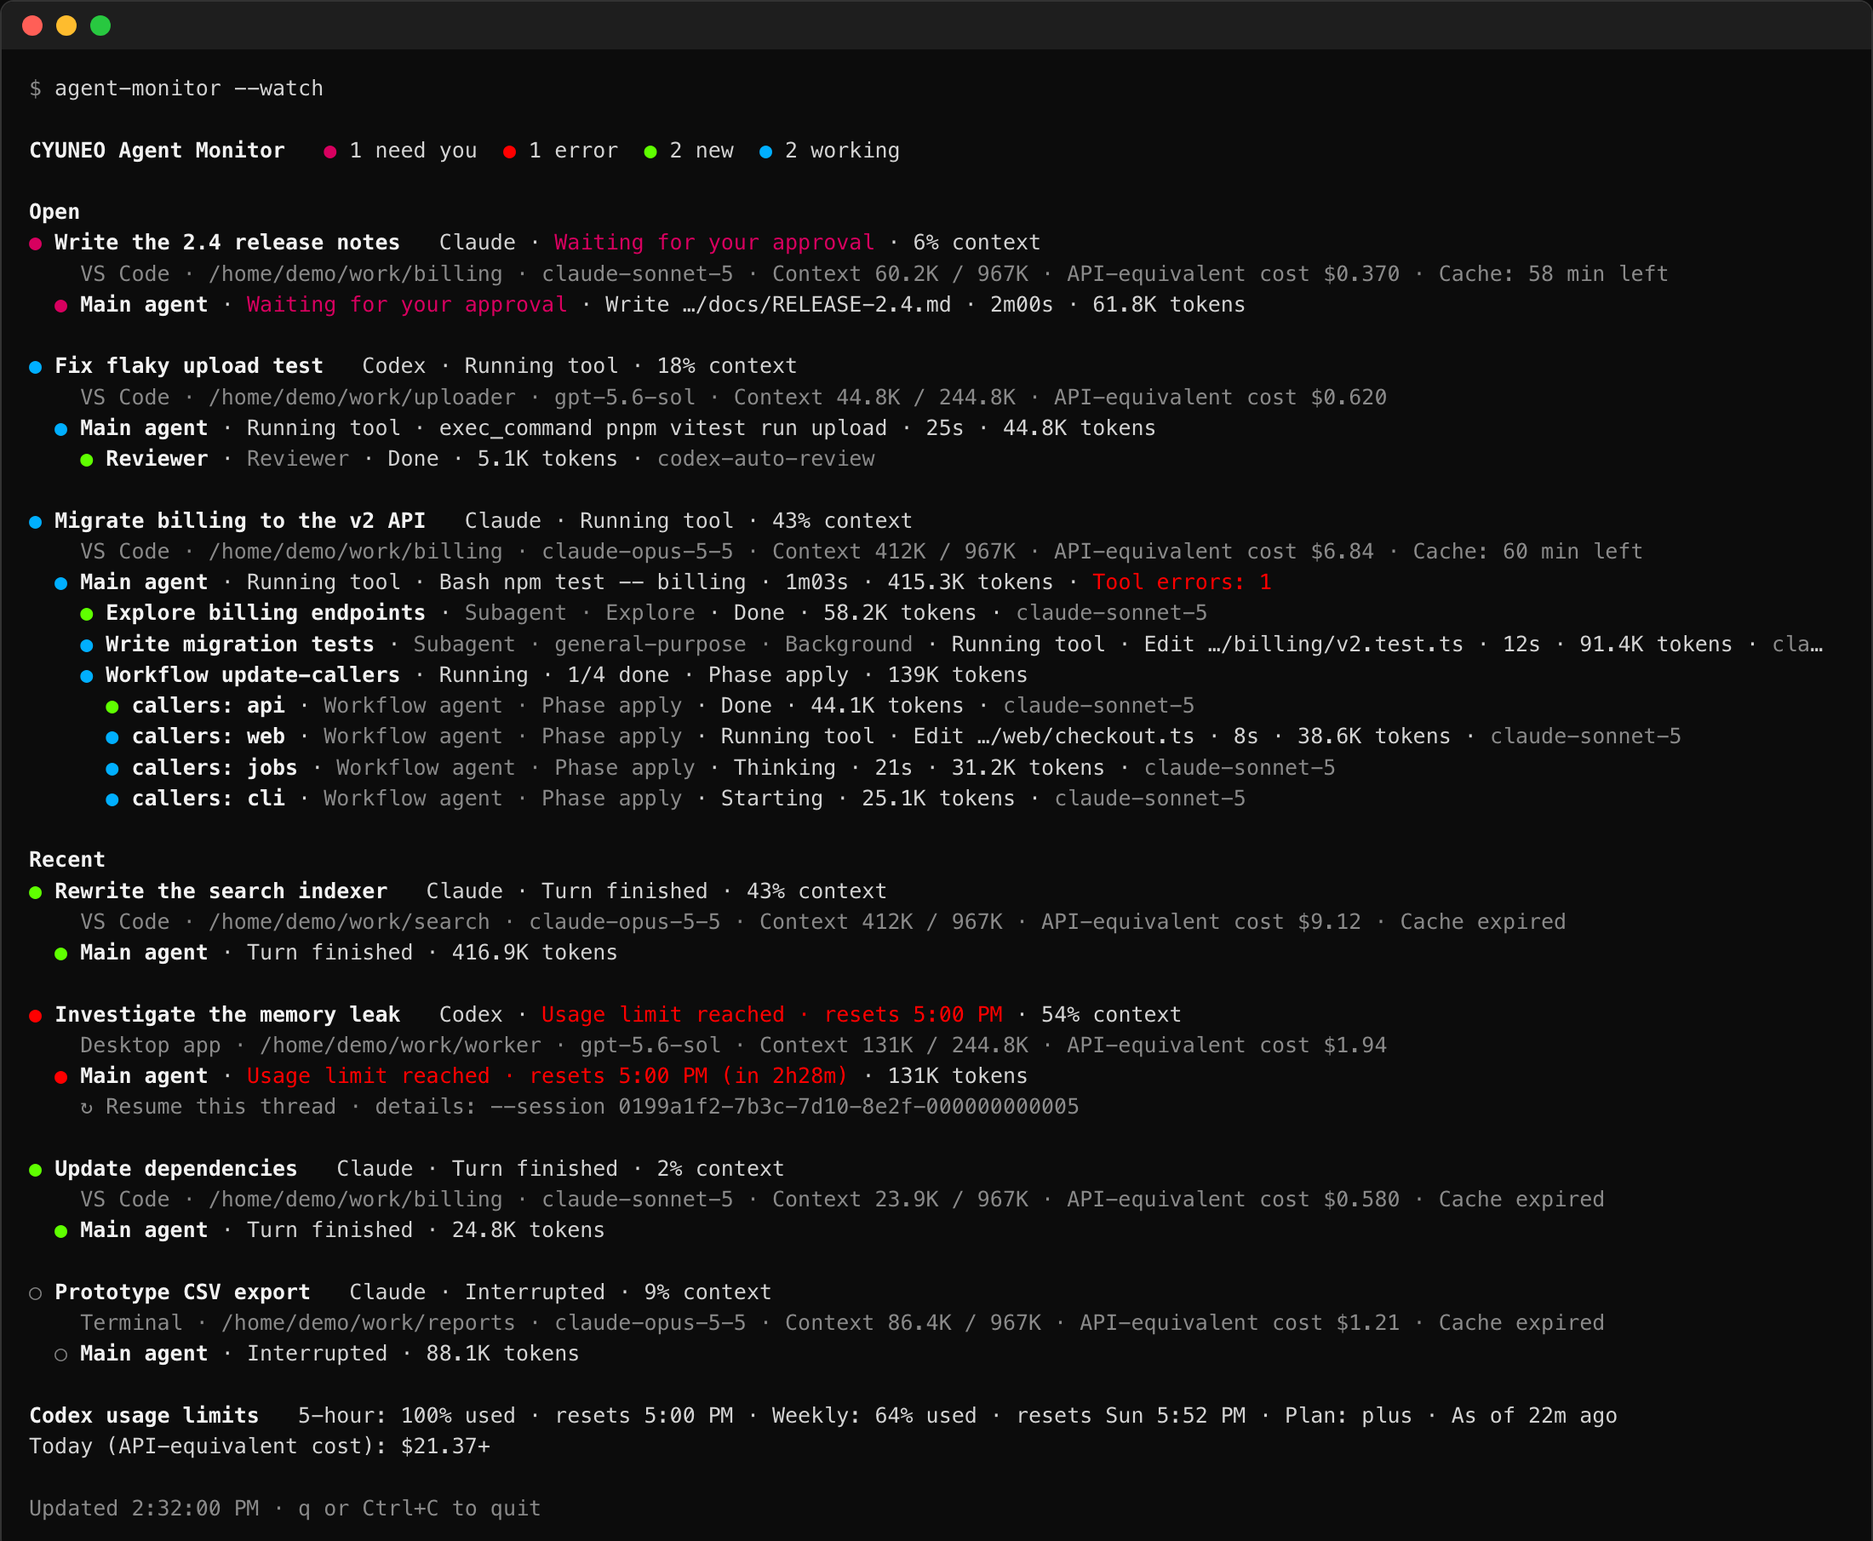
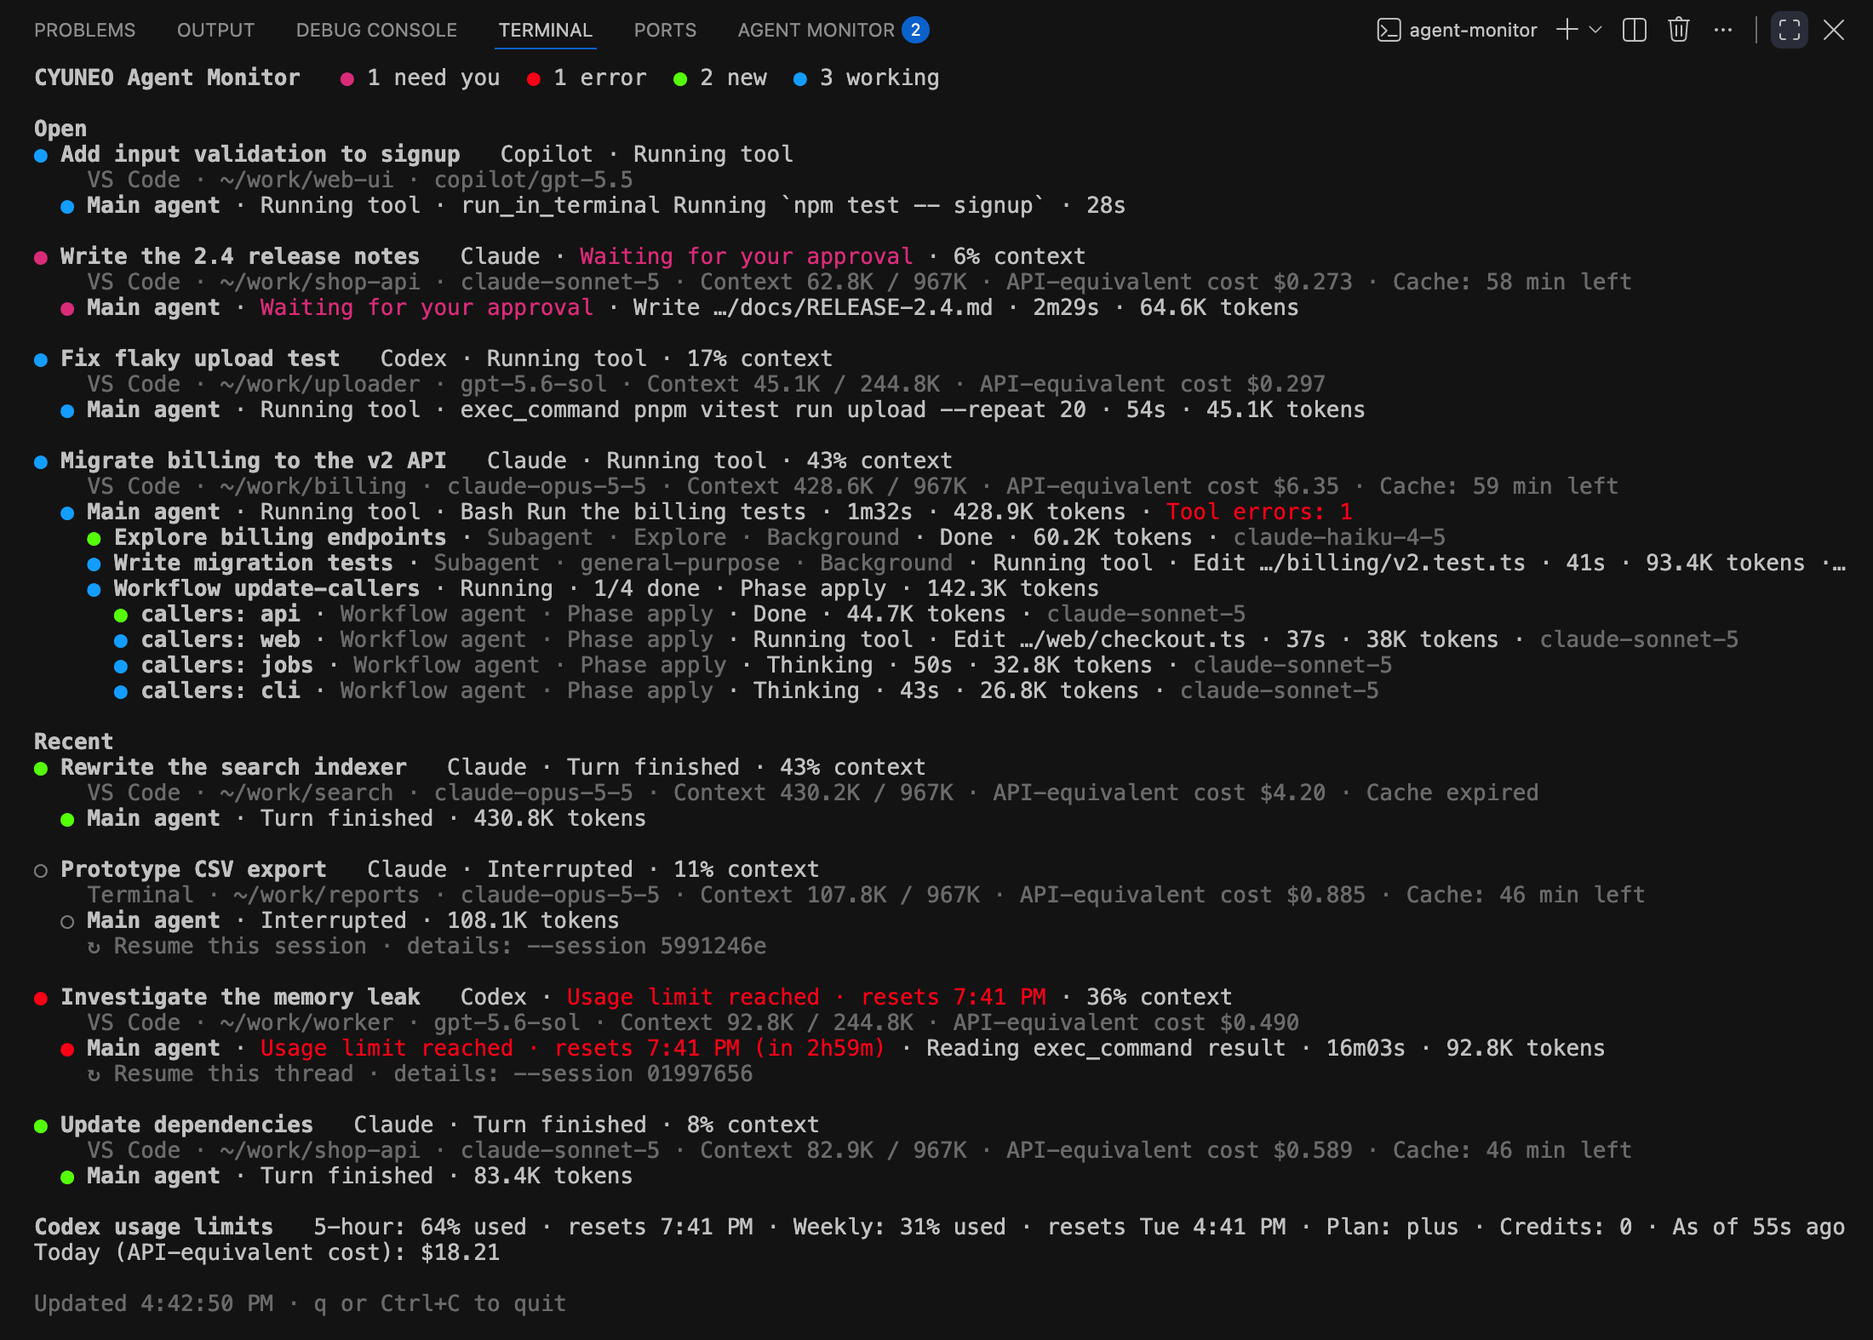
Refresh demo GIF and screenshots for 0.5.0; add usage history screenshot

diff --git a/docs/GUIDE.ja.md b/docs/GUIDE.ja.md
@@ -8,6 +8,8 @@
 
 ### ターミナルのように動くパネル
 
+![下部パネルのエージェントモニタータブ。データは架空のサンプルです。左に選択したClaude Codeチャットのメインエージェント、2つのサブエージェント、ワークフローのエージェント、右に開いているチャットと最近のチャットの一覧](../images/split-view.png)
+
 - **エージェントモニター**（英語UIではAgent Monitor）は、ターミナルの隣、下部パネルのタブとして開き、見た目もターミナルのようになります: 余分なビューヘッダーのない、ひとつのパネルです。選択したチャットのエージェントがパネルの大部分を占め、狭いチャット一覧がターミナルのタブ一覧のように片側に配置されます。
 - **チャット一覧。** 開いているチャットと最近のチャットがすべて、それぞれステータスランプ付きで表示されます。**開いている**（Claude Codeがまだチャットを開いている、CodexかGitHub Copilot Chatがターンの途中、Qwen Codeのプロセスがまだ動いている、またはGemini CLIが最近チャットに書き込んだと推測される）と**最近**にグループ分けされます。行の高さはターミナルのタブと同じで、選択したチャットはハイライトされます。タイトルが読めるよう、各行にはステータスランプとタイトルだけが表示されます。コンテキストが大きく対応する価値があるときは、タイトルの後ろに小さな印が付きます: **◔** 圧縮を検討、**◕** 早めに対応。行にカーソルを合わせると、ステータスやコンテキストなどの詳細がわかります。
 - **一覧はターミナルのタブ一覧と同じ側に配置されます**（既定は右側で、`terminal.integrated.tabs.location`に従います）。`agentMonitor.sessionListPosition`を設定すれば、自分で左右どちらかに変更できます。区切り線をドラッグして幅を調整し、ダブルクリックで既定の200pxに戻し、ほぼ閉じるまでドラッグするとステータスランプだけが並ぶ細い帯に縮まります。パネルが500px未満のときは自動的にこの細い帯になります。幅は記憶されます。
@@ -220,6 +222,8 @@ Claude Codeはコンテキストが一定の容量に達すると自動的に圧
 - 1日ごとの推定コストまたはトークン数を棒グラフで表示します。Claude CodeとCodexは積み上げて表示します（**コスト**と**トークン**を切り替えたり、**表で表示**を選んだりできます）。
 - 期間の合計、1日平均、使った日数を表示します。
 - **モデル別**の内訳を表示します: 入力、出力、キャッシュ読み取り、キャッシュ書き込み、推論、全トークン、推定コスト。
+
+![使用量の履歴ページ。データは架空のサンプルです。30日間の1日ごとの推定コスト（Claude CodeとCodexを積み上げ）、合計、モデル別の内訳](../images/history.png)
 
 しくみ:
 

diff --git a/docs/GUIDE.ko.md b/docs/GUIDE.ko.md
@@ -8,6 +8,8 @@
 
 ### 터미널처럼 동작하는 패널
 
+![하단 패널의 에이전트 모니터 탭입니다. 데이터는 가상의 예시입니다. 왼쪽에는 선택한 Claude Code 채팅의 메인 에이전트, 서브에이전트 두 개, 워크플로의 에이전트가, 오른쪽에는 열림과 최근 채팅 목록이 있습니다](../images/split-view.png)
+
 - **에이전트 모니터**(영어 UI에서는 Agent Monitor)는 터미널 옆, 하단 패널의 탭으로 열리며 터미널처럼 보입니다: 별도의 뷰 제목 표시줄 없이 하나의 패널입니다. 선택한 채팅의 에이전트가 패널 대부분을 차지하고, 좁은 채팅 목록이 터미널 탭 목록처럼 한쪽에 놓입니다.
 - **채팅 목록.** 열려 있거나 최근에 사용한 모든 채팅이 각각 상태등과 함께 표시됩니다. **열림**(Claude Code가 아직 채팅을 열어 두었거나, Codex나 GitHub Copilot Chat이 한 턴을 진행 중이거나, Qwen Code 프로세스가 아직 실행 중이거나, Gemini CLI가 최근에 채팅을 기록한 것으로 추측되는 경우)과 **최근**으로 그룹화됩니다. 행 높이는 터미널 탭과 같고, 선택한 채팅은 강조 표시됩니다. 제목이 잘 보이도록 각 행에는 상태등과 제목만 표시됩니다. 컨텍스트가 커서 처리할 가치가 있을 때는 제목 뒤에 작은 표시가 붙습니다: **◔** 압축을 고려하세요, **◕** 곧 처리하세요. 행에 마우스를 올리면 상태, 컨텍스트 등 자세한 내용을 볼 수 있습니다.
 - **목록은 터미널 탭 목록이 있는 쪽에 놓입니다**(기본값은 오른쪽이며 `terminal.integrated.tabs.location`을 따릅니다). `agentMonitor.sessionListPosition`을 설정해 직접 왼쪽이나 오른쪽으로 바꿀 수 있습니다. 구분선을 드래그해 너비를 조절하고, 두 번 클릭하면 기본값인 200px로 돌아가며, 거의 닫힐 때까지 드래그하면 상태등만 보이는 좁은 막대로 줄어듭니다. 패널이 500px보다 좁으면 자동으로 좁은 막대가 사용됩니다. 너비는 저장됩니다.
@@ -220,6 +222,8 @@ Claude Code는 컨텍스트가 특정 용량에 도달하면 스스로 압축합
 - 하루별 예상 비용이나 토큰 수를 막대 차트로 보여 줍니다. Claude Code와 Codex는 쌓아서 표시합니다(**비용**과 **토큰** 사이를 전환하거나 **표로 보기**를 선택할 수 있습니다).
 - 기간 합계, 일평균, 사용한 날 수를 보여 줍니다.
 - **모델별** 내역을 보여 줍니다: 입력, 출력, 캐시 읽기, 캐시 쓰기, 추론, 전체 토큰, 예상 비용.
+
+![사용량 기록 페이지입니다. 데이터는 가상의 예시입니다. 30일 동안의 하루별 예상 비용(Claude Code와 Codex를 쌓아서 표시), 합계, 모델별 내역](../images/history.png)
 
 동작 방식:
 

diff --git a/docs/GUIDE.md b/docs/GUIDE.md
@@ -8,6 +8,8 @@
 
 ### A panel that works like the Terminal
 
+![The Agent Monitor tab in the bottom panel, with made-up sample data: the selected Claude Code chat's main agent, two subagents and a workflow's agents on the left, and the list of open and recent chats on the right](../images/split-view.png)
+
 - **Agent Monitor** opens as a tab in the bottom panel, next to Terminal, and looks like it: one panel with no extra view headers. The agents of the selected chat fill most of it, and a narrow list of chats sits on one side, like the terminal's tab list.
 - **The chat list.** Every open and recent chat, each with a status light. They are grouped into **Open** (Claude Code still has the chat open; Codex or GitHub Copilot Chat is in the middle of a turn; Qwen Code's process is still running; or, as a guess, Gemini CLI has written to it recently) and **Recent**. Rows are the same height as terminal tabs, and the selected chat is highlighted. To leave room for titles, a row shows only the status light and the title, plus a small mark when a large context is worth dealing with: **◔** consider compacting, **◕** handle soon. Hover over a row for its status, context and the rest.
 - **The list sits where your terminal's tab list is** (right by default, following `terminal.integrated.tabs.location`); set `agentMonitor.sessionListPosition` to put it on the left or right yourself. Drag the divider to resize it, double-click the divider to reset it to 200 px, or drag it almost closed to shrink the list to a strip of status lights. When the panel is narrower than 500 px, the strip is used automatically. The width is remembered.
@@ -220,6 +222,8 @@ Click an agent to see its recent steps, its final result (with a copy button), t
 - the estimated cost or the tokens of each day, as a bar chart with Claude Code and Codex stacked (switch between **Cost** and **Tokens**, or **Show as a table**);
 - totals for the period, the daily average and how many days you used them;
 - a breakdown **By model**: input, output, cache read, cache write, reasoning, all tokens and estimated cost.
+
+![The Usage History page, with made-up sample data: estimated cost per day over 30 days with Claude Code and Codex stacked, the totals and the breakdown by model](../images/history.png)
 
 How it works:
 

diff --git a/README.ja.md b/README.ja.md
@@ -8,7 +8,7 @@
 
 > **プレビュー版（0.5.0）。** おかしな点を見つけたら、[GitHub Issues](https://github.com/cyuneo/cyuneo-agent-monitor/issues)で報告してください。
 
-![VS Codeパネル内で動くAgent Monitorのデモアニメーション。データは架空のサンプルです。Claude Codeのチャットで、メインエージェントと2つのサブエージェントがファイルの読み込み、検索、編集、テスト実行を順に進め、トークン、コスト、コンテキストの割合が増えていきます。サブエージェントの1つがテスト実行の承認を待つ間はマゼンタのランプが点き、一覧にあるそのチャットのランプとパネルのタブの数字も合わせて変わります。承認後に再開し、すべてのエージェントが完了すると緑のランプになります。最後に一覧からCodexのチャットを選ぶと、そのチャットのステップに切り替わります](images/demo.gif)
+![VS Codeパネル内で動くAgent Monitorのデモアニメーション。データは架空のサンプルです。ターミナルで動くClaude Codeのチャットで、メインエージェントと2つのサブエージェントがファイルの読み込み、検索、編集、テスト実行を順に進め、トークン、コスト、コンテキストの割合が増えていきます。サブエージェントがテストを実行しようとすると、承認を待つ間そのサブエージェントとメインエージェントのランプがマゼンタになり、一覧にあるそのチャットのランプ、パネルのタブの数字、ステータスバーも合わせて変わります。チャットをダブルクリックすると、そのチャットが動いているターミナルに移動し、そこでコマンドを承認します。パネルに戻ると、すべてのエージェントが完了して緑のランプになります。最後にパネルの…メニューから使用量の履歴を開きます](images/demo.gif)
 
 ## なぜ作ったのか
 

diff --git a/README.ko.md b/README.ko.md
@@ -8,7 +8,7 @@
 
 > **프리뷰(0.5.0).** 이상한 점을 발견하면 [GitHub Issues](https://github.com/cyuneo/cyuneo-agent-monitor/issues)에 알려주세요.
 
-![VS Code 패널에서 동작하는 Agent Monitor 데모 애니메이션입니다. 데이터는 가상의 예시입니다. Claude Code 채팅에서 메인 에이전트와 서브에이전트 두 개가 파일 읽기, 검색, 편집, 테스트 실행을 차례로 진행하고, 토큰과 비용, 컨텍스트 비율이 올라갑니다. 서브에이전트 하나가 테스트를 실행하려고 승인을 기다리는 동안 마젠타색 등이 켜지고, 목록에 있는 그 채팅의 등과 패널 탭의 숫자도 함께 바뀝니다. 승인 후 다시 진행되어 모든 에이전트가 끝나면 초록색 등이 켜집니다. 마지막으로 목록에서 Codex 채팅을 고르면 그 채팅의 단계가 표시됩니다](images/demo.gif)
+![VS Code 패널에서 동작하는 Agent Monitor 데모 애니메이션입니다. 데이터는 가상의 예시입니다. 터미널에서 실행 중인 Claude Code 채팅에서 메인 에이전트와 서브에이전트 두 개가 파일 읽기, 검색, 편집, 테스트 실행을 차례로 진행하고, 토큰과 비용, 컨텍스트 비율이 올라갑니다. 서브에이전트가 테스트를 실행하려고 하면 승인을 기다리는 동안 그 서브에이전트와 메인 에이전트의 등이 마젠타색으로 바뀌고, 목록에 있는 그 채팅의 등과 패널 탭의 숫자, 상태 표시줄도 함께 바뀝니다. 채팅을 두 번 클릭하면 그 채팅이 실행 중인 터미널로 이동하고, 거기서 명령을 승인합니다. 패널로 돌아오면 모든 에이전트가 끝나 초록색 등이 켜집니다. 마지막으로 패널의 … 메뉴에서 사용량 기록을 엽니다](images/demo.gif)
 
 ## 왜 만들었나
 

diff --git a/README.md b/README.md
@@ -8,7 +8,7 @@ See all your AI coding chats in one place, next to your terminal: which agents a
 
 > **Preview (0.5.0).** Please report anything that looks wrong in [GitHub Issues](https://github.com/cyuneo/cyuneo-agent-monitor/issues).
 
-![Animated demo of Agent Monitor in the VS Code panel, with made-up sample data: in a Claude Code chat, the main agent and two subagents step through reading files, searching, editing and running tests while tokens, cost and context percent climb. One subagent's light turns magenta while it waits for approval to run the tests, and the chat's light in the list and the panel badge change with it. It then carries on and every agent finishes with a green light. Last, a Codex chat is picked from the list and its steps show instead](images/demo.gif)
+![Animated demo of Agent Monitor in the VS Code panel, with made-up sample data: in a Claude Code chat running in a terminal, the main agent and two subagents step through reading files, searching, editing and running tests while tokens, cost and context percent climb. When a subagent wants to run the tests, its light and the main agent's turn magenta while they wait for approval, and the chat's light in the list, the panel badge and the status bar change with them. A double-click on the chat jumps to the terminal it runs in, where the command is approved. Back in the panel, every agent finishes with a green light. Last, Usage History is opened from the panel's … menu](images/demo.gif)
 
 ## Why I built it
 

diff --git a/README.zh-TW.md b/README.zh-TW.md
@@ -8,7 +8,7 @@
 
 > **預覽版（0.5.0）。** 如果發現任何不對勁的地方，歡迎到 [GitHub Issues](https://github.com/cyuneo/cyuneo-agent-monitor/issues) 回報。
 
-![Agent Monitor 在 VS Code 面板中的動態示範，資料是虛構的範例：一個 Claude Code 聊天視窗裡，主智慧體和兩個子智慧體依序讀取檔案、搜尋、編輯、執行測試，token、費用和上下文百分比隨之上升。其中一個子智慧體要執行測試、等你核准時亮起洋紅色燈，清單裡這個聊天的燈和面板分頁上的計數也跟著改變。核准後繼續，所有智慧體完成，亮起綠燈。最後在清單裡點選一個 Codex 聊天，面板換成它的步驟](images/demo.gif)
+![Agent Monitor 在 VS Code 面板中的動態示範，資料是虛構的範例：一個在終端機裡執行的 Claude Code 聊天視窗裡，主智慧體和兩個子智慧體依序讀取檔案、搜尋、編輯、執行測試，token、費用和上下文百分比隨之上升。一個子智慧體要執行測試時，它和主智慧體都亮起洋紅色燈等你核准，清單裡這個聊天的燈、面板分頁上的計數和狀態列也跟著改變。按兩下這個聊天，跳到它所在的終端機，在那裡核准命令。回到面板，所有智慧體完成，亮起綠燈。最後從面板的 … 選單開啟用量歷史](images/demo.gif)
 
 ## 為什麼做這個
 

diff --git a/README.zh-CN.md b/README.zh-CN.md
@@ -8,7 +8,7 @@
 
 > **预览版（0.5.0）。** 发现任何不对劲的地方，欢迎到 [GitHub Issues](https://github.com/cyuneo/cyuneo-agent-monitor/issues) 反馈。
 
-![Agent Monitor 在 VS Code 面板中的动态演示，数据是虚构的示例：一个 Claude Code 聊天窗口里，主智能体和两个子智能体依次读文件、搜索、编辑、跑测试，token、费用和上下文百分比随之上涨。其中一个子智能体要运行测试、等你批准时亮起品红色灯，列表里这个聊天的灯和面板标签上的计数也跟着变。批准后继续，所有智能体完成，亮起绿灯。最后在列表里点选一个 Codex 聊天，面板换成它的步骤](images/demo.gif)
+![Agent Monitor 在 VS Code 面板中的动态演示，数据是虚构的示例：一个在终端里运行的 Claude Code 聊天窗口里，主智能体和两个子智能体依次读文件、搜索、编辑、跑测试，token、费用和上下文百分比随之上涨。一个子智能体要运行测试时，它和主智能体都亮起品红色灯等你批准，列表里这个聊天的灯、面板标签上的计数和状态栏也跟着变。双击这个聊天，跳到它所在的终端，在那里批准命令。回到面板，所有智能体完成，亮起绿灯。最后从面板的 … 菜单打开用量历史](images/demo.gif)
 
 ## 为什么做这个
 
